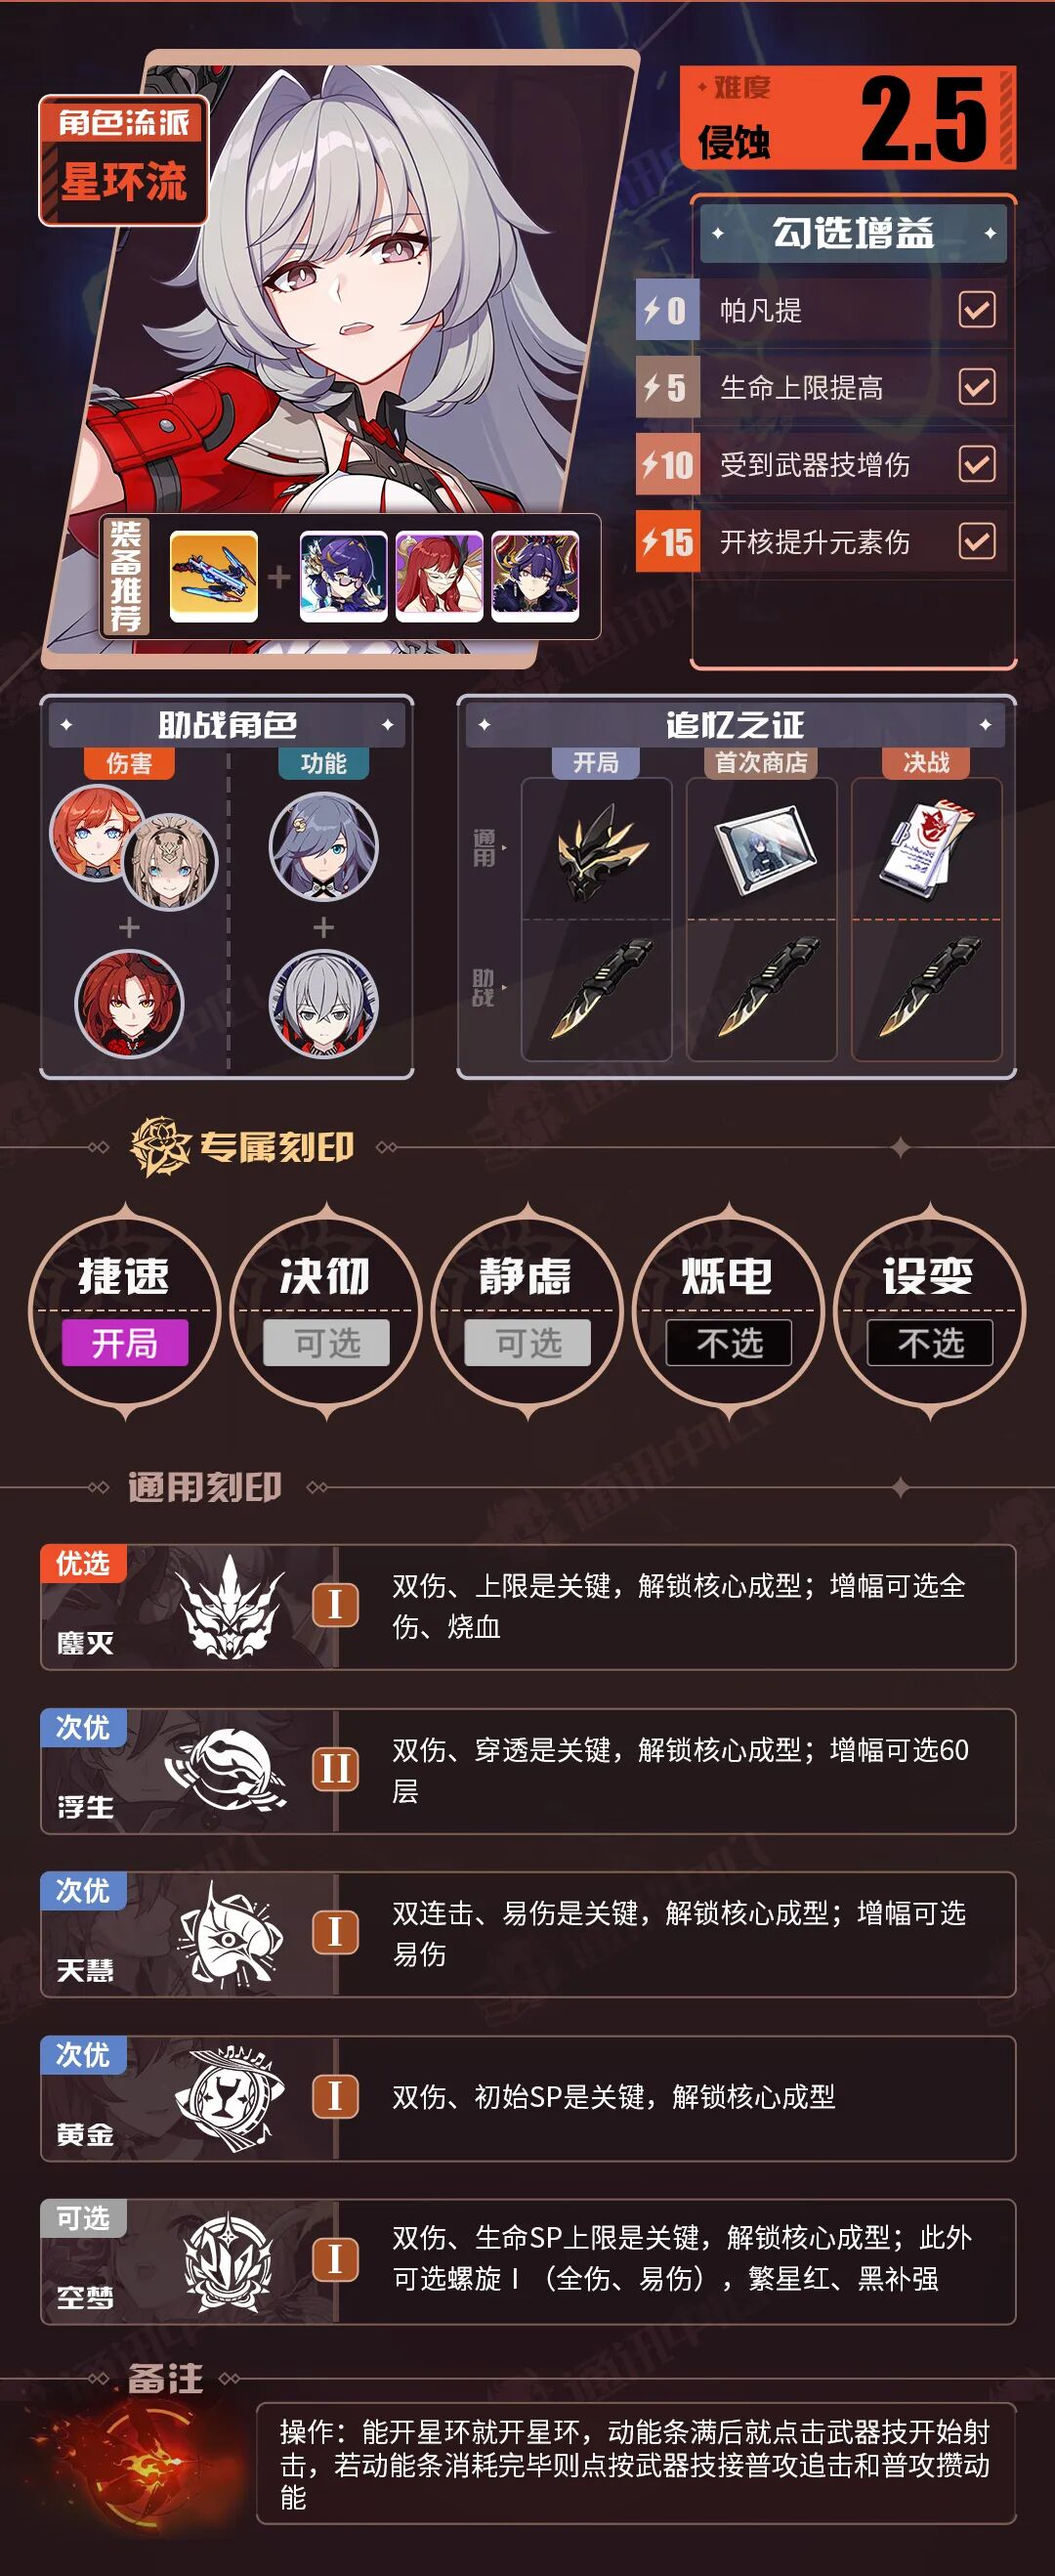
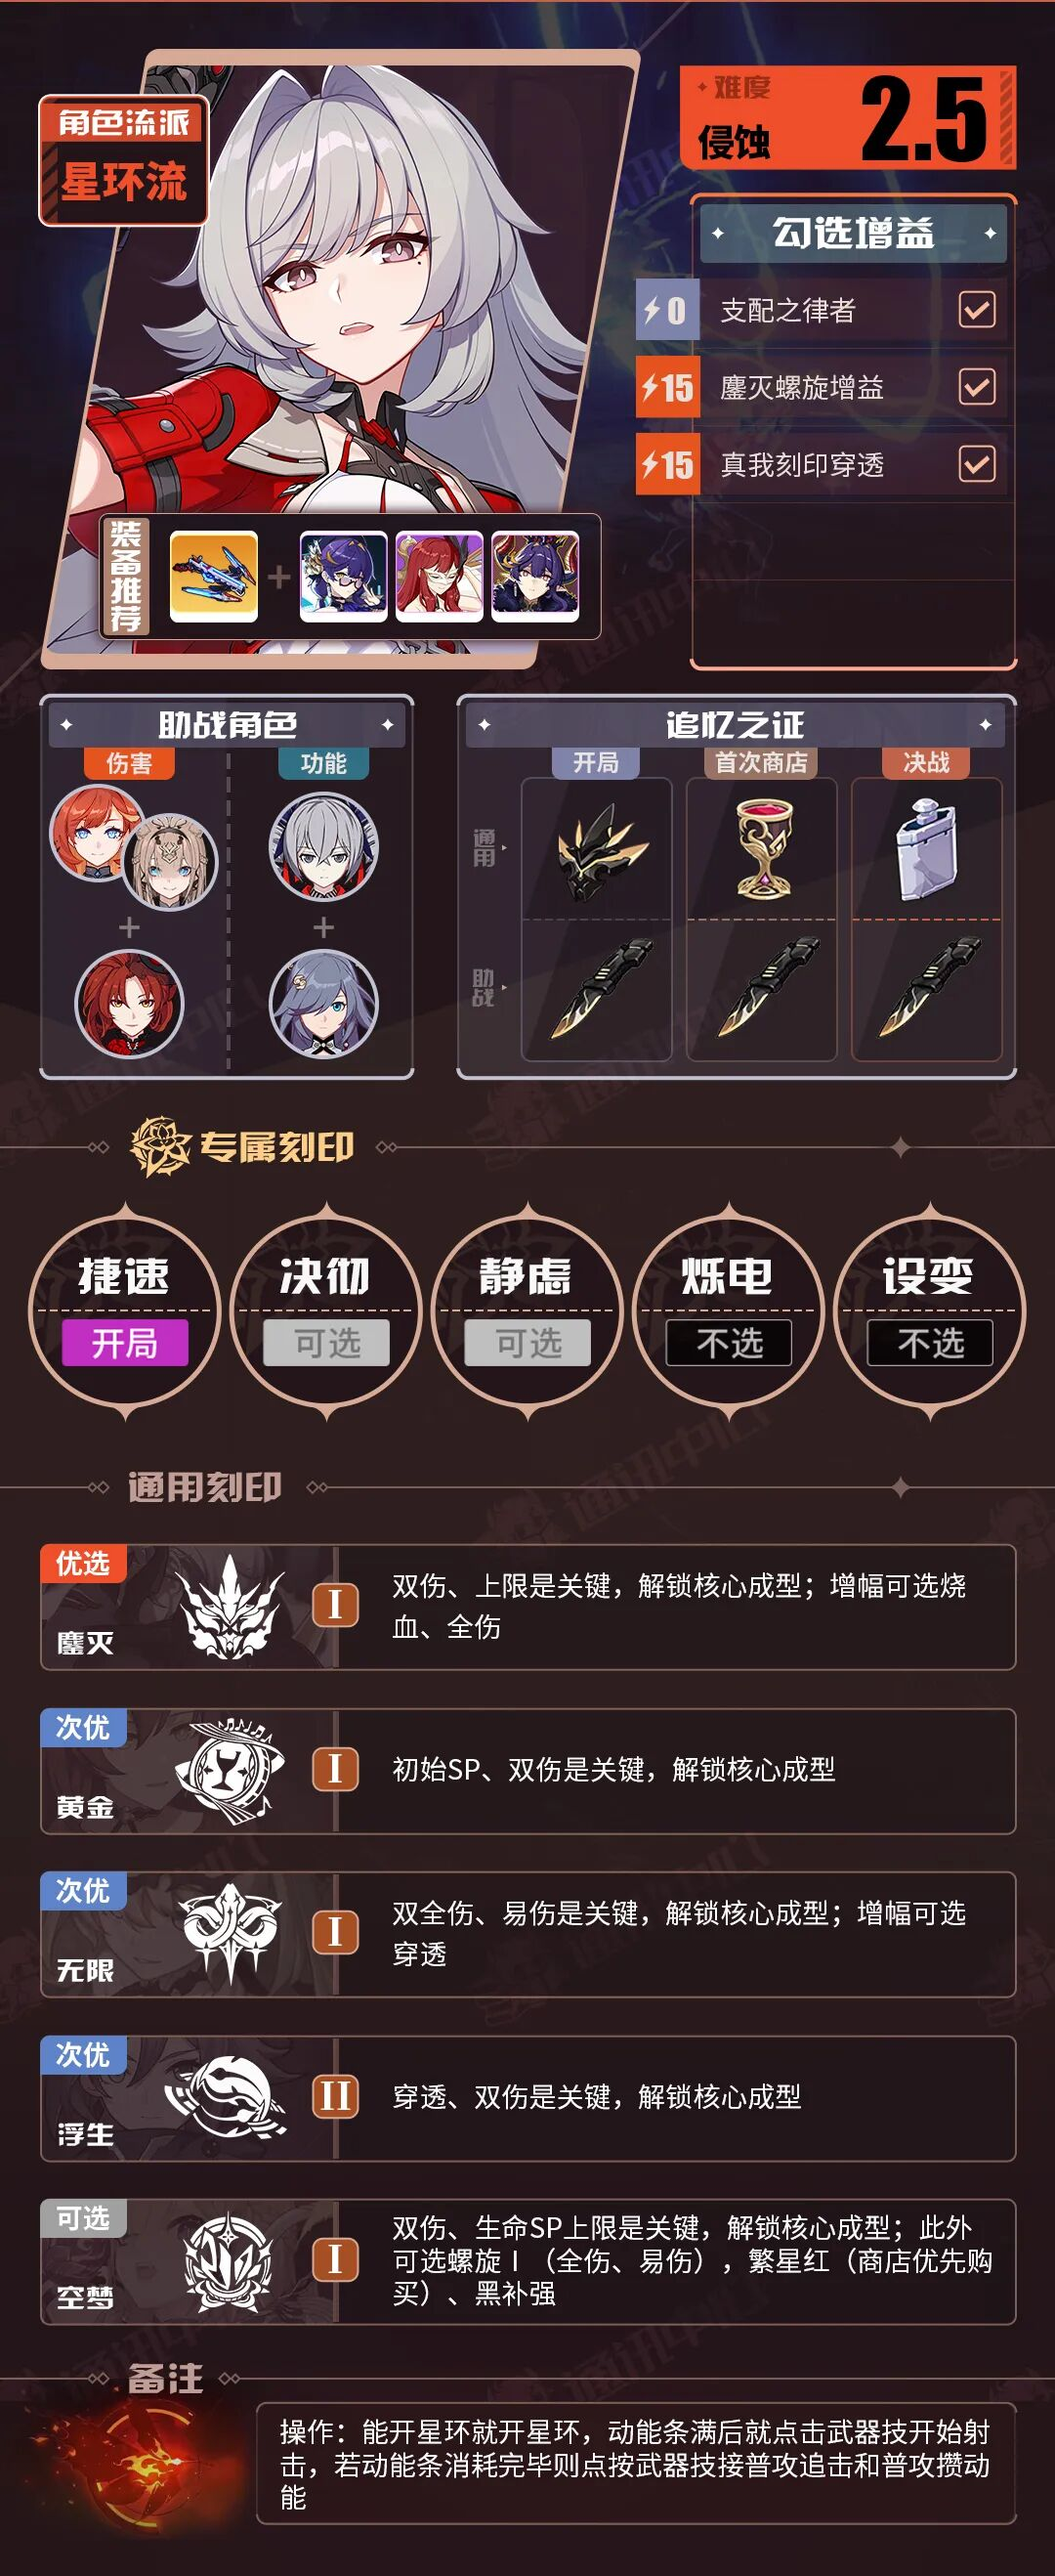
9.1v1

diff --git a/README.md b/README.md
@@ -195,6 +195,8 @@ node scripts/build-index.js
 | Rosemary.jpg                           | 失落迷迭                           |
 | Rosemary_MMB.jpg                       | 失落迷迭 (千机兵幕)                |
 | Cabbage.jpg                            | 时帆旅人                           |
+| Time.jpg                               | 时序之律者                          |
+| Time_AstralRing.jpg                    | 时序之律者星环流                       |
 | ShigureKira_Branch.jpg                 | 时雨绮                             |
 | ShigureKira.jpg                        | 时雨绮罗                           |
 | Sentience_brick.jpg                    | 识律板砖流                         |
